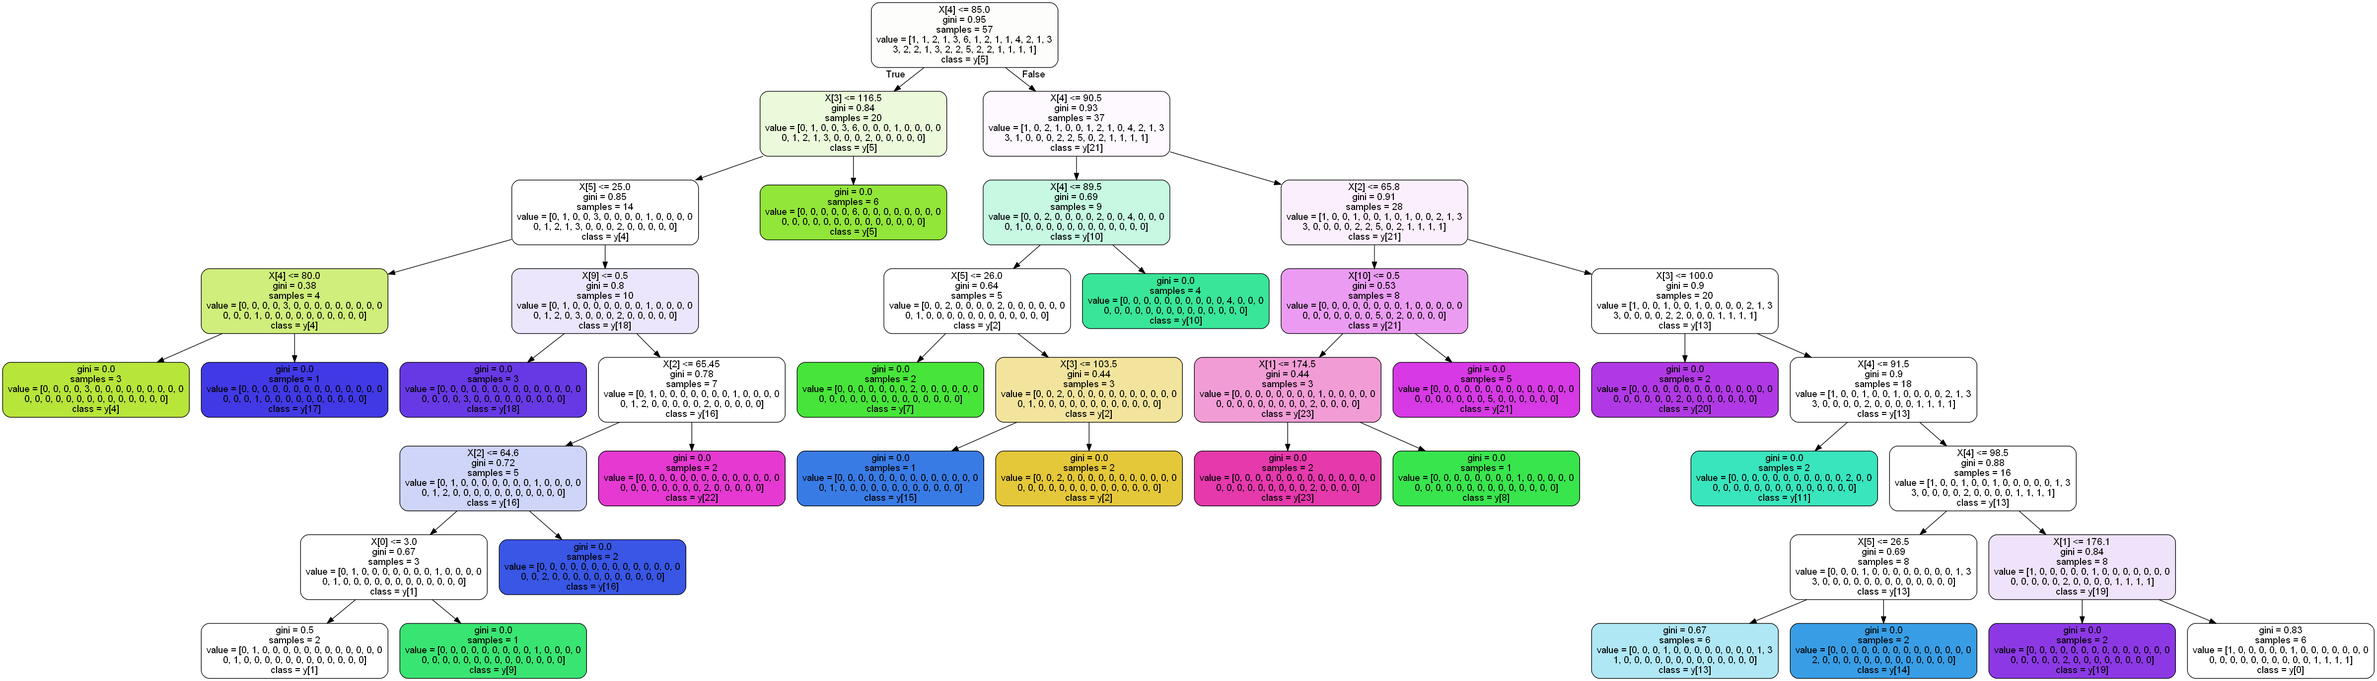
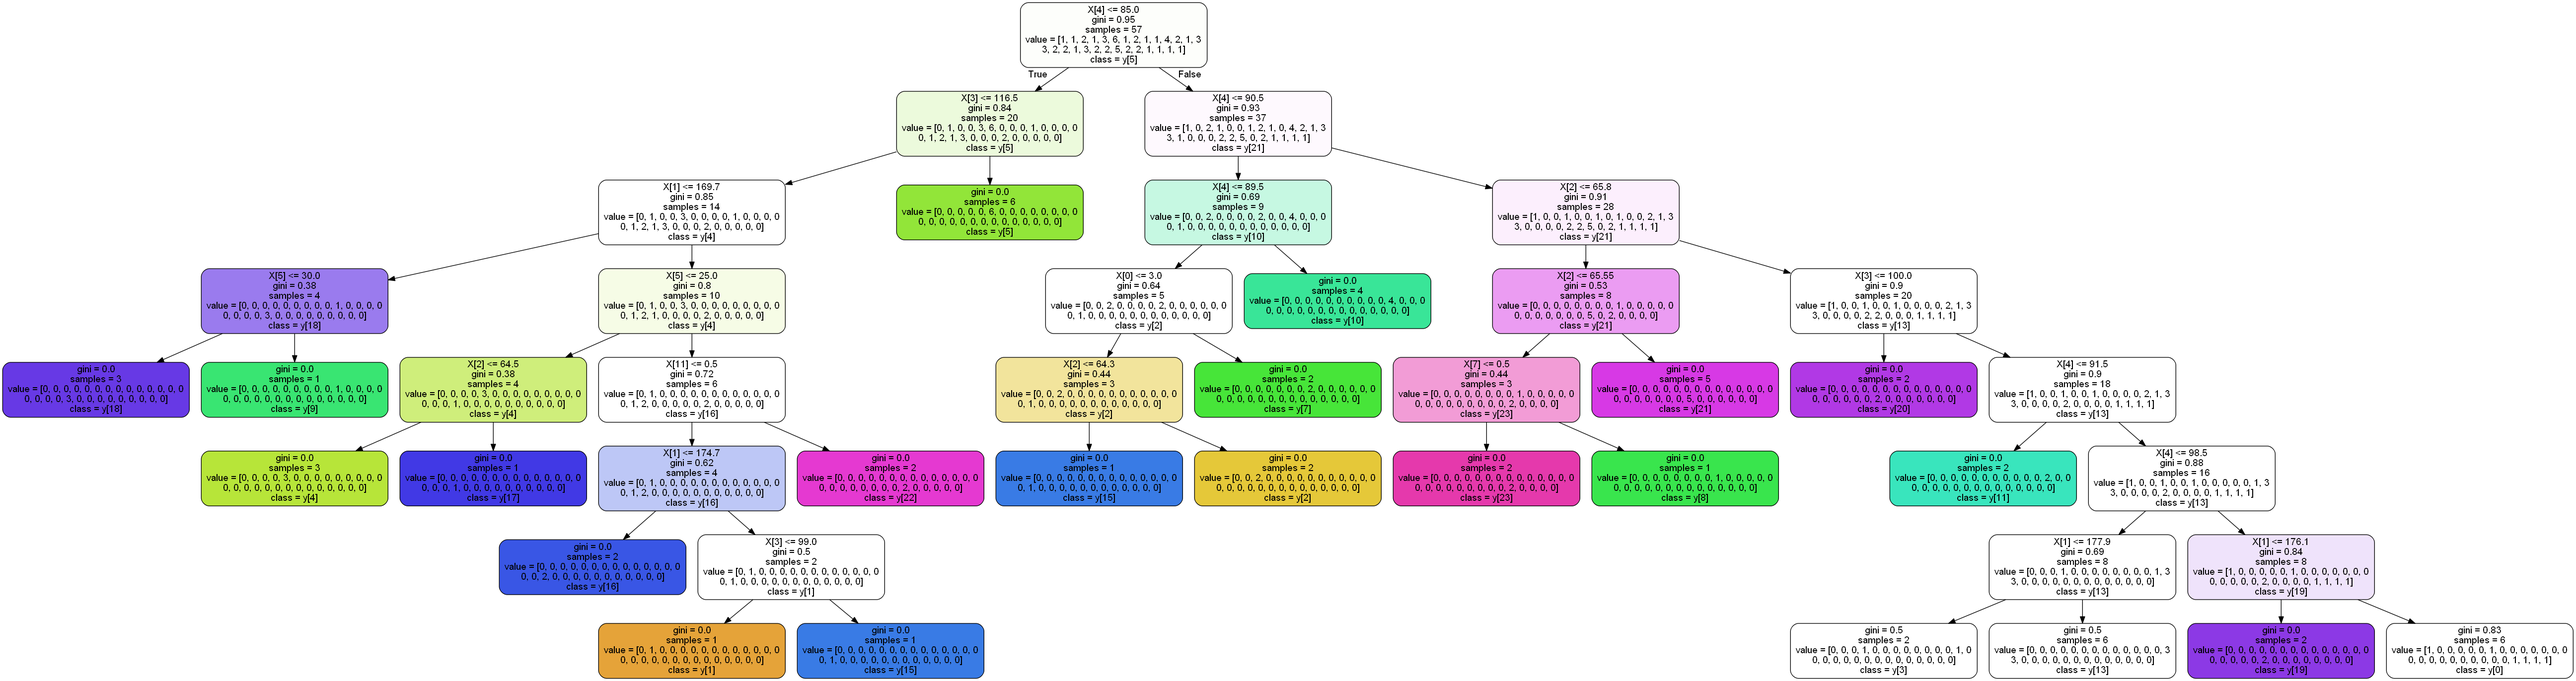
cityrew3

diff --git a/Gui_Ques/City.py b/Gui_Ques/City.py
@@ -42,67 +42,55 @@ class City:
             l3.grid(row=2, column=4)
             b1.grid(row=4, column=4)
 
-        def CallMachineLearnng(q1, q2, q3, q4, q5):
+        def CallMachineLearnng(q1, q2, q3, q4, q5, q6):
             from MachineLearning import DecisionTreeCity
             a = DecisionTreeCity.DecisionML.Decison("self", q1, q2, q3, q4, q5)
             PrintResult(a)
 
-        def Question1_6(q1, q2, q3, q4):
+        def Question1_6(q1, q2, q3, q4, q5):
             enterprice = StringVar(value="")
 
             def setPrice():
                 ChoiceQ1_6 = enterprice.get()
                 destryAll()
-                CallMachineLearnng(q1, q2, q3, q4, ChoiceQ1_6)
+                CallMachineLearnng(q1, q2, q3, q4, q5, ChoiceQ1_6)
 
             l1 = Label(frame, text="Quale prezzo preferiresti?", background=ColorBttn, foreground="#43a047",
-                       font=("Helvetica", 60))
-            # l2 = Label(frame, text="preferisci?", background='#c8e6c9', foreground="#43a047",
-            # font=("Helvetica", 50))
-
+                       font=("Helvetica", 50))
+            insertPrice = Entry(frame, textvariable=enterprice, background="#e8f5e9", foreground=ColorBttnTxT,
+                                font=("Helvetica", 30))
             l1.grid(row=0, column=4)
-            # l2.grid(row=1, column=4)
-            # b1 = Button(frame, text="Benzina", width=15, background=ColorBttn,
-            # command=setBenz,
-            # font=('Courrier', '20'),
-            # foreground=ColorBttnTxT)
-
-            # b2 = Button(frame, text="Diesel", width=15, background=ColorBttn,
-            # command=setDis,
-            # font=('Courrier', '20'),
-            # foreground=ColorBttnTxT)
-
+            insertPrice.grid(row=1, column=4)
             b3 = Button(frame, text="Inserisci", width=15, background=ColorBttn,
-                        command=setPrice(),
+                        command=setPrice,
                         font=('Courrier', '20'),
                         foreground=ColorBttnTxT)
 
-            #b1.grid(row=2, column=4)
-            #b2.grid(row=3, column=4)
-            #b3.grid(row=4, column=4)
+            b3.grid(row=2, column=4)
 
             def destryAll():
                 l1.destroy()
-                #l2.destroy()
-                #b1.destroy()
-                #b2.destroy()
+                # l2.destroy()
+                # b1.destroy()
+                # b2.destroy()
+                insertPrice.destroy()
                 b3.destroy()
 
         def Question1_5(q1, q2, q3, q4):
             def setBenz():
                 ChoiceQ1_5 = "BENZ"
                 destryAll()
-                CallMachineLearnng(q1, q2, q3, q4, ChoiceQ1_5)
+                Question1_6(q1, q2, q3, q4, ChoiceQ1_5)
 
             def setDis():
                 ChoiceQ1_5 = "DIS"
                 destryAll()
-                CallMachineLearnng(q1, q2, q3, q4, ChoiceQ1_5)
+                Question1_6(q1, q2, q3, q4, ChoiceQ1_5)
 
             def setNotCarb():
                 ChoiceQ1_5 = "NOTCARB"
                 destryAll()
-                CallMachineLearnng(q1, q2, q3, q4, ChoiceQ1_5)
+                Question1_6(q1, q2, q3, q4, ChoiceQ1_5)
 
             l1 = Label(frame, text="Quale tipo di carburante", background=ColorBttn, foreground="#43a047",
                        font=("Helvetica", 60))
